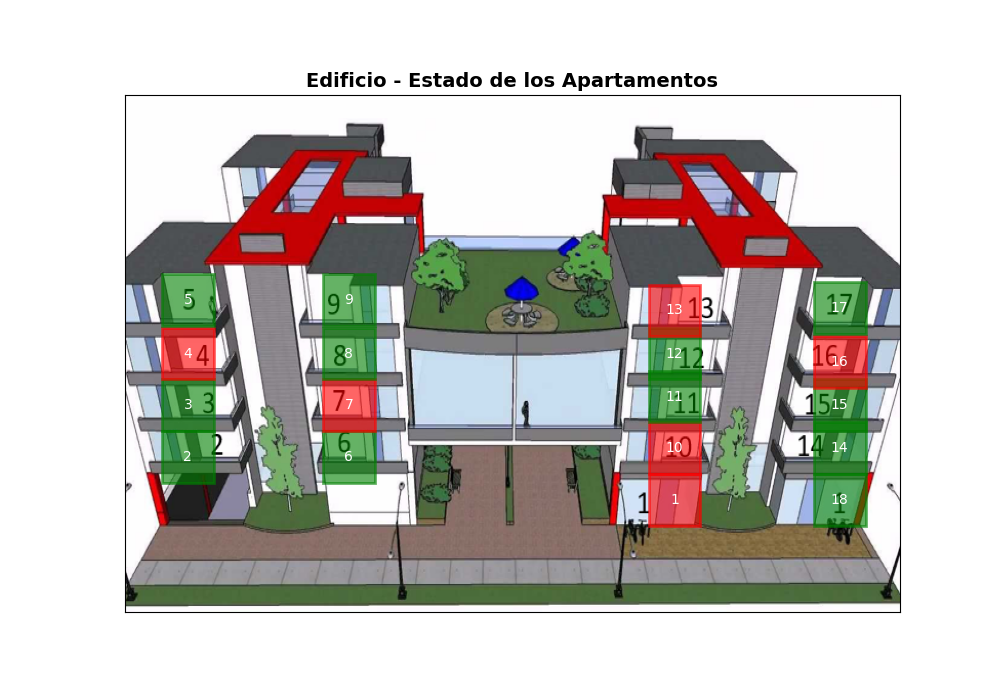
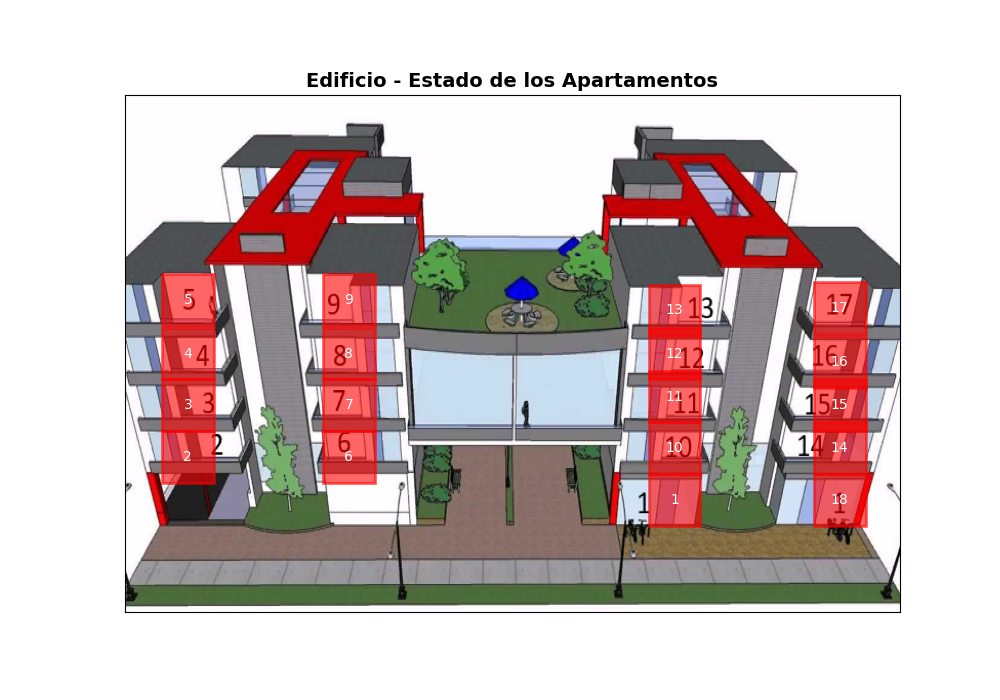
Se agrega una base de datos en AWS para almacenar el estado de los apartamentos

diff --git a/Proyecto Inmobiliario/app.py b/Proyecto Inmobiliario/app.py
@@ -3,8 +3,30 @@ import matplotlib.pyplot as plt
 import numpy as np
 from PIL import Image
 import os
+import boto3
 
 app = Flask(__name__)
+
+# Configurar AWS DynamoDB
+dynamodb = boto3.resource('dynamodb', region_name='us-east-1')  # Cambia la región según tu configuración
+table_name = "EstadoApartamentos"
+
+# Verificar si la tabla existe, si no, crearla
+def verificar_o_crear_tabla():
+    existing_tables = boto3.client('dynamodb', region_name='us-east-1').list_tables()['TableNames']
+    if table_name not in existing_tables:
+        dynamodb.create_table(
+            TableName=table_name,
+            KeySchema=[{'AttributeName': 'id_apartamento', 'KeyType': 'HASH'}],
+            AttributeDefinitions=[{'AttributeName': 'id_apartamento', 'AttributeType': 'N'}],
+            ProvisionedThroughput={'ReadCapacityUnits': 5, 'WriteCapacityUnits': 5}
+        )
+        print(f"Creando tabla {table_name}, espera un momento...")
+        waiter = dynamodb.meta.client.get_waiter('table_exists')
+        waiter.wait(TableName=table_name)
+    return dynamodb.Table(table_name)
+
+tabla = verificar_o_crear_tabla()
 
 # Definir la ubicación de los apartamentos según la imagen
 posiciones = {
@@ -14,15 +36,30 @@ posiciones = {
     18: (6.8, 3.2), 14: (6.8, 2.6), 15: (6.8, 2.1), 16: (6.8, 1.6), 17: (6.8, .97)
 }
 
+# Obtener el estado actual de los apartamentos desde DynamoDB
+def obtener_estado_apartamentos():
+    response = tabla.scan()
+    ocupados = {str(item['id_apartamento']): item['estado'] for item in response.get('Items', [])}
+    return ocupados
+
+# Guardar el estado de los apartamentos en DynamoDB
+def guardar_estado_apartamentos(ocupados):
+    with tabla.batch_writer() as batch:
+        for id_apartamento, estado in ocupados.items():
+            batch.put_item({
+                'id_apartamento': int(id_apartamento),
+                'estado': int(estado)
+            })
+
+# Generar la imagen con el estado de los apartamentos
 def generar_imagen(ocupados):
-    # Cargar la imagen del edificio
     imagen = Image.open("static/edificio.png").transpose(Image.FLIP_TOP_BOTTOM)
     
     fig, ax = plt.subplots(figsize=(10, 7))
     ax.imshow(imagen, extent=[-1, 8, -1, 5])
     
     for num, (x, y) in posiciones.items():
-        color = 'red' if ocupados.get(str(num), '0') == '1' else 'green'
+        color = 'red' if ocupados.get(str(num), 0) == 1 else 'green'
         rect = plt.Rectangle((x + 0.2, y + 0.2), 0.6, 0.6, color=color, alpha=0.6, edgecolor='black', linewidth=2)
         ax.add_patch(rect)
         ax.text(x + 0.5, y + 0.5, str(num), ha='center', va='center', fontsize=10, color='white')
@@ -41,10 +78,15 @@ def generar_imagen(ocupados):
 
 @app.route('/', methods=['GET', 'POST'])
 def index():
-    ocupados = {}
+    ocupados = obtener_estado_apartamentos()
+
     if request.method == 'POST':
-        ocupados = request.form.to_dict()
+        ocupados_actualizados = {k: int(v) for k, v in request.form.to_dict().items()}
+        guardar_estado_apartamentos(ocupados_actualizados)
+        ocupados = obtener_estado_apartamentos()
         generar_imagen(ocupados)
+
+    generar_imagen(ocupados)
     return render_template('index.html', ocupados=ocupados)
 
 if __name__ == '__main__':
